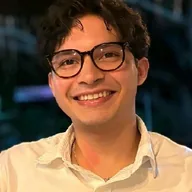
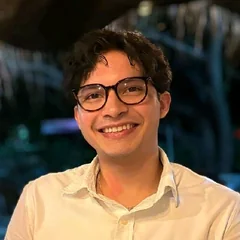
Nosotros: fotos con la cara completa y círculo de 72 px (64 en celular)

diff --git a/nosotros/index.html b/nosotros/index.html
@@ -20,7 +20,7 @@
 <link rel="preconnect" href="https://fonts.googleapis.com">
 <link rel="preconnect" href="https://fonts.gstatic.com" crossorigin>
 <link rel="stylesheet" href="https://fonts.googleapis.com/css2?family=Inter:wght@400;500;600;700&family=Newsreader:ital,opsz,wght@1,6..72,400&family=Space+Grotesk:wght@500;600;700&display=swap">
-<link rel="stylesheet" href="../landing.css?v=202610100343">
+<link rel="stylesheet" href="../landing.css?v=202610100348">
 <script>document.documentElement.className = 'js';</script>
 </head>
 <body class="pg-nos">
@@ -101,7 +101,7 @@
         <li class="miembro">
           <div class="mb-band"><span>Producto</span><svg viewBox="0 0 211.08 132" aria-hidden="true"><use href="#sym"/></svg></div>
           <div class="mb-body">
-            <div class="mb-who"><span class="mb-av" aria-hidden="true">SM<img src="fotos/saymond.webp" alt="" width="56" height="56" loading="lazy" decoding="async"></span><div><h3>Saymond Montoya</h3><p class="mb-role">Cofundador · Producto y tecnología</p><a class="mb-in" href="https://www.linkedin.com/in/saymond-montoya-80530b2a3/" target="_blank" rel="noopener" aria-label="LinkedIn de Saymond Montoya (se abre en otra pestaña)"><svg viewBox="0 0 24 24" aria-hidden="true"><path d="M20.447 20.452h-3.554v-5.569c0-1.328-.027-3.037-1.852-3.037-1.853 0-2.136 1.445-2.136 2.939v5.667H9.351V9h3.414v1.561h.046c.477-.9 1.637-1.85 3.37-1.85 3.601 0 4.267 2.37 4.267 5.455v6.286zM5.337 7.433a2.062 2.062 0 1 1 0-4.125 2.062 2.062 0 0 1 0 4.125zM7.119 20.452H3.555V9h3.564v11.452zM22.225 0H1.771C.792 0 0 .774 0 1.729v20.542C0 23.227.792 24 1.771 24h20.451C23.2 24 24 23.227 24 22.271V1.729C24 .774 23.2 0 22.222 0h.003z"/></svg>LinkedIn</a></div></div>
+            <div class="mb-who"><span class="mb-av" aria-hidden="true">SM<img src="fotos/saymond.webp" alt="" width="72" height="72" loading="lazy" decoding="async"></span><div><h3>Saymond Montoya</h3><p class="mb-role">Cofundador · Producto y tecnología</p><a class="mb-in" href="https://www.linkedin.com/in/saymond-montoya-80530b2a3/" target="_blank" rel="noopener" aria-label="LinkedIn de Saymond Montoya (se abre en otra pestaña)"><svg viewBox="0 0 24 24" aria-hidden="true"><path d="M20.447 20.452h-3.554v-5.569c0-1.328-.027-3.037-1.852-3.037-1.853 0-2.136 1.445-2.136 2.939v5.667H9.351V9h3.414v1.561h.046c.477-.9 1.637-1.85 3.37-1.85 3.601 0 4.267 2.37 4.267 5.455v6.286zM5.337 7.433a2.062 2.062 0 1 1 0-4.125 2.062 2.062 0 0 1 0 4.125zM7.119 20.452H3.555V9h3.564v11.452zM22.225 0H1.771C.792 0 0 .774 0 1.729v20.542C0 23.227.792 24 1.771 24h20.451C23.2 24 24 23.227 24 22.271V1.729C24 .774 23.2 0 22.222 0h.003z"/></svg>LinkedIn</a></div></div>
             <p class="mb-k">En Xolo Run</p>
             <p class="mb-do">Diseña y construye la app, para que encontrar una carrera, inscribirte y llevar tu dorsal sea simple.</p>
             <p class="mb-k">De dónde viene</p>
@@ -114,7 +114,7 @@
         <li class="miembro">
           <div class="mb-band"><span>Operaciones</span><svg viewBox="0 0 211.08 132" aria-hidden="true"><use href="#sym"/></svg></div>
           <div class="mb-body">
-            <div class="mb-who"><span class="mb-av" aria-hidden="true">KR<img src="fotos/kenneth.webp" alt="" width="56" height="56" loading="lazy" decoding="async"></span><div><h3>Kenneth Rosales</h3><p class="mb-role">Cofundador · Operaciones y cumplimiento</p><a class="mb-in" href="https://www.linkedin.com/in/kenneth-rosales-327521126/" target="_blank" rel="noopener" aria-label="LinkedIn de Kenneth Rosales (se abre en otra pestaña)"><svg viewBox="0 0 24 24" aria-hidden="true"><path d="M20.447 20.452h-3.554v-5.569c0-1.328-.027-3.037-1.852-3.037-1.853 0-2.136 1.445-2.136 2.939v5.667H9.351V9h3.414v1.561h.046c.477-.9 1.637-1.85 3.37-1.85 3.601 0 4.267 2.37 4.267 5.455v6.286zM5.337 7.433a2.062 2.062 0 1 1 0-4.125 2.062 2.062 0 0 1 0 4.125zM7.119 20.452H3.555V9h3.564v11.452zM22.225 0H1.771C.792 0 0 .774 0 1.729v20.542C0 23.227.792 24 1.771 24h20.451C23.2 24 24 23.227 24 22.271V1.729C24 .774 23.2 0 22.222 0h.003z"/></svg>LinkedIn</a></div></div>
+            <div class="mb-who"><span class="mb-av" aria-hidden="true">KR<img src="fotos/kenneth.webp" alt="" width="72" height="72" loading="lazy" decoding="async"></span><div><h3>Kenneth Rosales</h3><p class="mb-role">Cofundador · Operaciones y cumplimiento</p><a class="mb-in" href="https://www.linkedin.com/in/kenneth-rosales-327521126/" target="_blank" rel="noopener" aria-label="LinkedIn de Kenneth Rosales (se abre en otra pestaña)"><svg viewBox="0 0 24 24" aria-hidden="true"><path d="M20.447 20.452h-3.554v-5.569c0-1.328-.027-3.037-1.852-3.037-1.853 0-2.136 1.445-2.136 2.939v5.667H9.351V9h3.414v1.561h.046c.477-.9 1.637-1.85 3.37-1.85 3.601 0 4.267 2.37 4.267 5.455v6.286zM5.337 7.433a2.062 2.062 0 1 1 0-4.125 2.062 2.062 0 0 1 0 4.125zM7.119 20.452H3.555V9h3.564v11.452zM22.225 0H1.771C.792 0 0 .774 0 1.729v20.542C0 23.227.792 24 1.771 24h20.451C23.2 24 24 23.227 24 22.271V1.729C24 .774 23.2 0 22.222 0h.003z"/></svg>LinkedIn</a></div></div>
             <p class="mb-k">En Xolo Run</p>
             <p class="mb-do">Se encarga de la operación: pagos confiables, datos cuidados y una entrega de kits ordenada.</p>
             <p class="mb-k">De dónde viene</p>
@@ -127,7 +127,7 @@
         <li class="miembro">
           <div class="mb-band"><span>Comercial</span><svg viewBox="0 0 211.08 132" aria-hidden="true"><use href="#sym"/></svg></div>
           <div class="mb-body">
-            <div class="mb-who"><span class="mb-av" aria-hidden="true">BG<img src="fotos/bigarny.webp" alt="" width="56" height="56" loading="lazy" decoding="async"></span><div><h3>Bigarny Gutiérrez</h3><p class="mb-role">Cofundador · Comercial y alianzas</p><a class="mb-in" href="https://www.linkedin.com/in/bigarny-gutierrez-20868629b/" target="_blank" rel="noopener" aria-label="LinkedIn de Bigarny Gutiérrez (se abre en otra pestaña)"><svg viewBox="0 0 24 24" aria-hidden="true"><path d="M20.447 20.452h-3.554v-5.569c0-1.328-.027-3.037-1.852-3.037-1.853 0-2.136 1.445-2.136 2.939v5.667H9.351V9h3.414v1.561h.046c.477-.9 1.637-1.85 3.37-1.85 3.601 0 4.267 2.37 4.267 5.455v6.286zM5.337 7.433a2.062 2.062 0 1 1 0-4.125 2.062 2.062 0 0 1 0 4.125zM7.119 20.452H3.555V9h3.564v11.452zM22.225 0H1.771C.792 0 0 .774 0 1.729v20.542C0 23.227.792 24 1.771 24h20.451C23.2 24 24 23.227 24 22.271V1.729C24 .774 23.2 0 22.222 0h.003z"/></svg>LinkedIn</a></div></div>
+            <div class="mb-who"><span class="mb-av" aria-hidden="true">BG<img src="fotos/bigarny.webp" alt="" width="72" height="72" loading="lazy" decoding="async"></span><div><h3>Bigarny Gutiérrez</h3><p class="mb-role">Cofundador · Comercial y alianzas</p><a class="mb-in" href="https://www.linkedin.com/in/bigarny-gutierrez-20868629b/" target="_blank" rel="noopener" aria-label="LinkedIn de Bigarny Gutiérrez (se abre en otra pestaña)"><svg viewBox="0 0 24 24" aria-hidden="true"><path d="M20.447 20.452h-3.554v-5.569c0-1.328-.027-3.037-1.852-3.037-1.853 0-2.136 1.445-2.136 2.939v5.667H9.351V9h3.414v1.561h.046c.477-.9 1.637-1.85 3.37-1.85 3.601 0 4.267 2.37 4.267 5.455v6.286zM5.337 7.433a2.062 2.062 0 1 1 0-4.125 2.062 2.062 0 0 1 0 4.125zM7.119 20.452H3.555V9h3.564v11.452zM22.225 0H1.771C.792 0 0 .774 0 1.729v20.542C0 23.227.792 24 1.771 24h20.451C23.2 24 24 23.227 24 22.271V1.729C24 .774 23.2 0 22.222 0h.003z"/></svg>LinkedIn</a></div></div>
             <p class="mb-k">En Xolo Run</p>
             <p class="mb-do">Trabaja con organizadores y marcas para que las carreras de Nicaragua lleguen a la app.</p>
             <p class="mb-k">De dónde viene</p>

diff --git a/landing.css b/landing.css
@@ -417,7 +417,7 @@ html:not(.js) .mv-line .base, html:not(.js) .mv-line .seg { transform: none; }
 .mb-band svg { width: 34px; height: auto; color: var(--arena); }   /* el símbolo en negativo: arena con su tramo arcilla */
 .mb-body { display: flex; flex-direction: column; flex: 1; padding: 26px 40px 34px; }
 .mb-who { display: flex; align-items: center; gap: 14px; }
-.mb-av { flex: none; display: grid; place-items: center; width: 56px; height: 56px; border-radius: 50%; background: var(--jade-100); color: var(--lago); font: 700 1.125rem/1 "Space Grotesk", sans-serif; letter-spacing: .02em; }
+.mb-av { flex: none; display: grid; place-items: center; width: 72px; height: 72px; border-radius: 50%; background: var(--jade-100); color: var(--lago); font: 700 1.25rem/1 "Space Grotesk", sans-serif; letter-spacing: .02em; }
 .mb-av { position: relative; overflow: hidden; }
 .mb-av img { position: absolute; inset: 0; width: 100%; height: 100%; object-fit: cover; }   /* la foto tapa las iniciales; si no carga, quedan las iniciales */
 .miembro h3 { margin: 0; font: 700 1.375rem/1.1 "Space Grotesk", sans-serif; letter-spacing: -.02em; }
@@ -437,6 +437,7 @@ html:not(.js) .mv-line .base, html:not(.js) .mv-line .seg { transform: none; }
 .miembro .hole.a { left: 14px; top: 68px; } .miembro .hole.b { right: 14px; top: 68px; } .miembro .hole.c { left: 14px; bottom: 14px; } .miembro .hole.d { right: 14px; bottom: 14px; }
 /* en tableta y celular, una tarjeta debajo de otra: en su propia página se leen completas, sin deslizar */
 @media (max-width: 1000px) { .equipo { grid-template-columns: minmax(0, 1fr); max-width: 600px; gap: 16px; } }
+@media (max-width: 640px) { .mb-body { padding: 26px 32px 32px; } .mb-av { width: 64px; height: 64px; } .miembro h3 { font-size: 1.25rem; } }   /* en celular el nombre cabe en una línea junto a la foto */
 @media (max-width: 380px) { .mb-body { padding: 24px 32px 32px; } .miembro .hole.a, .miembro .hole.c { left: 10px; } .miembro .hole.b, .miembro .hole.d { right: 10px; } }
 @media (prefers-reduced-motion: reduce) { .mv-line .base, .mv-line .seg, .miembro { transition: none; } }
 

diff --git a/index.html b/index.html
@@ -20,12 +20,12 @@
 <link rel="preconnect" href="https://fonts.googleapis.com">
 <link rel="preconnect" href="https://fonts.gstatic.com" crossorigin>
 <link rel="stylesheet" href="https://fonts.googleapis.com/css2?family=Inter:wght@400;500;600;700&family=Newsreader:ital,opsz,wght@1,6..72,400&family=Space+Grotesk:wght@500;600;700&display=swap">
-<link rel="stylesheet" href="landing.css?v=202610100343">
+<link rel="stylesheet" href="landing.css?v=202610100348">
 <script type="application/ld+json">{"@context":"https://schema.org","@type":"Organization","name":"Xolo Run","url":"https://xolorun.com/","logo":"https://xolorun.com/marca/apple-touch-icon-180.png","slogan":"Mismas rutas. Más gente.","description":"App nicaragüense que reúne las carreras del país en un solo lugar.","areaServed":"NI","founder":[{"@type":"Person","name":"Saymond Montoya","jobTitle":"Cofundador · Producto y tecnología"},{"@type":"Person","name":"Kenneth Rosales","jobTitle":"Cofundador · Operaciones y cumplimiento"},{"@type":"Person","name":"Bigarny Gutiérrez","jobTitle":"Cofundador · Comercial y alianzas"}]}</script>
 <script>document.documentElement.className = 'js';</script>
 <script src="https://cdn.jsdelivr.net/npm/gsap@3.15.0/dist/gsap.min.js" defer></script>
 <script src="https://cdnjs.cloudflare.com/ajax/libs/qrcode-generator/1.4.4/qrcode.min.js" defer></script>
-<script src="landing.js?v=202610100343" defer></script>
+<script src="landing.js?v=202610100348" defer></script>
 </head>
 <body>
 <a class="skip" href="#main">Ir al contenido</a>
